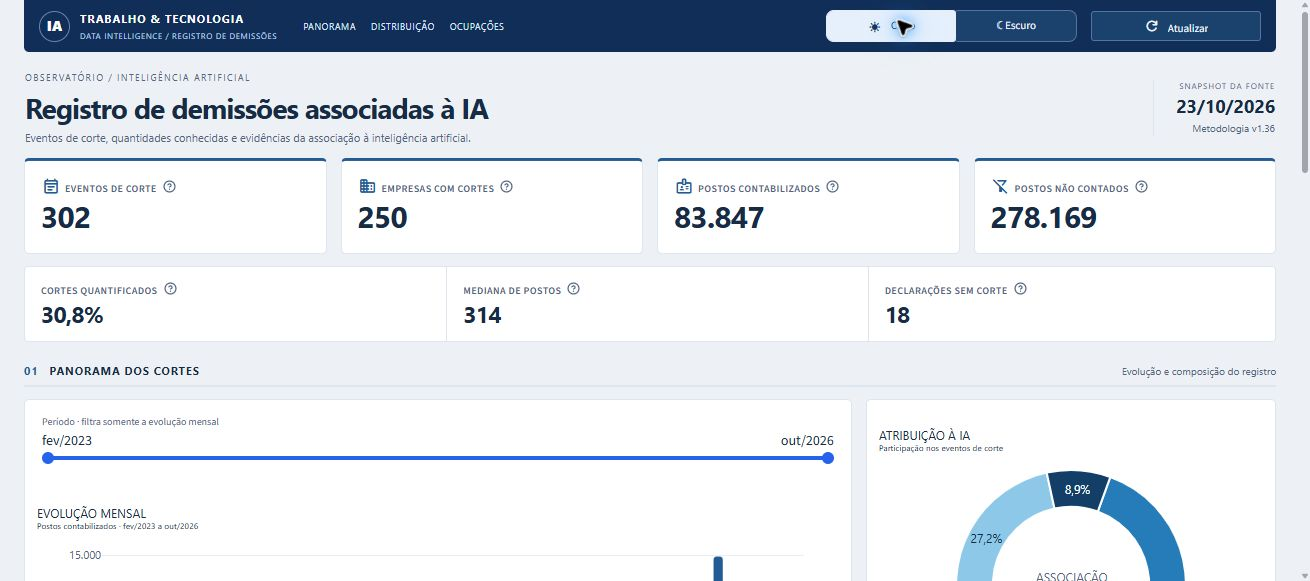
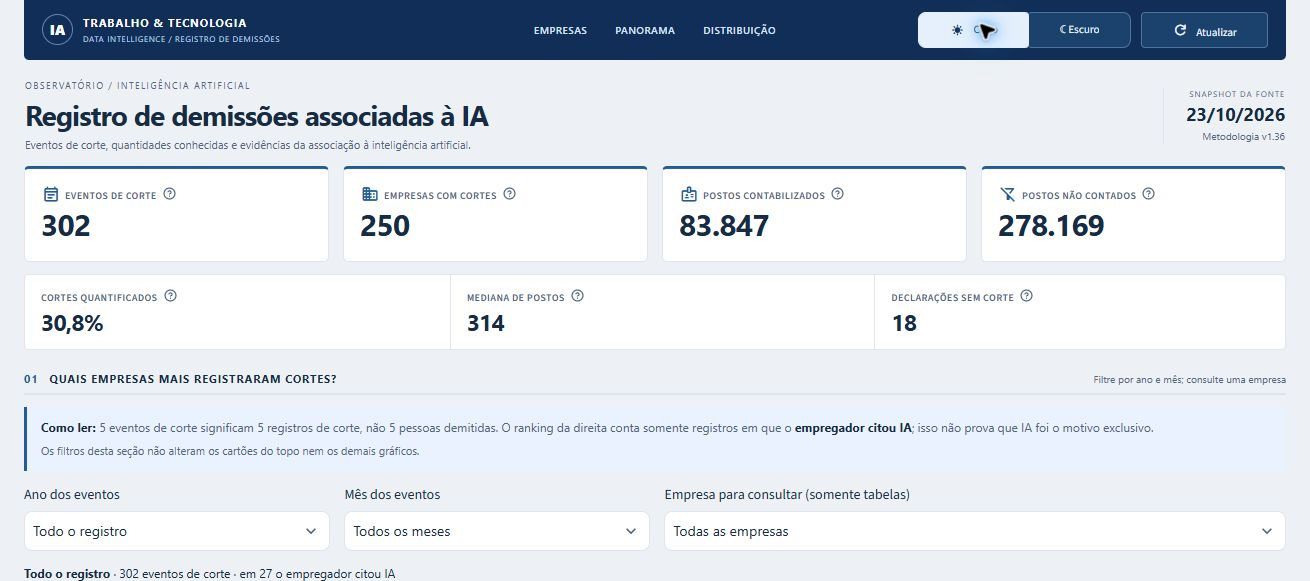
style: centraliza navegacao e organiza controles do cabecalho

diff --git a/design/painel.css b/design/painel.css
@@ -5,15 +5,18 @@
 .stApp [data-testid="stVerticalBlock"] { gap: 12px; }
 .stApp [data-testid="stHorizontalBlock"] { gap: 14px; }
 .stApp a { color: var(--acento); }
-.st-key-topbar { background: var(--hero); padding: 10px 15px; border-radius: 0 0 5px 5px; }
+.st-key-topbar { background: var(--hero); padding: 12px 18px; border-radius: 0 0 5px 5px; }
 .masthead { display: flex; align-items: center; gap: 10px; min-height: 32px; color: #fff; }
 .brand-mark { width: 31px; height: 31px; display: grid; place-items: center; border: 1px solid #6686af; border-radius: 50%; font-weight: 800; font-size: 14px; }
 .brand-name { font-size: 11px; letter-spacing: 1px; font-weight: 700; white-space: nowrap; }
 .brand-name small { display: block; font-size: 8px; letter-spacing: .65px; color: #b8cce7; font-weight: 400; margin-top: 2px; }
-.masthead nav { display: flex; gap: 15px; margin-left: 16px; }
-.masthead nav a { color: #d8e5f7; text-decoration: none; font-size: 9px; letter-spacing: .5px; }
-.masthead nav a:hover { color: #fff; text-decoration: underline; }
-.st-key-topbar button { min-height: 30px; padding: 3px 9px; border-radius: 3px; font-size: 11px; }
+.header-nav { display: flex; align-items: center; justify-content: center; gap: 4px; min-height: 36px; }
+.header-nav a { display: inline-flex; align-items: center; justify-content: center; min-height: 36px; padding: 0 12px; border-radius: 4px; color: #d8e5f7; text-decoration: none; font-size: 10px; font-weight: 600; letter-spacing: .5px; }
+.header-nav a:hover { color: #fff; background: #24496f; }
+.header-nav a:focus-visible { outline: 2px solid #b7d8ff; outline-offset: 2px; }
+.st-key-acoes_cabecalho { width: 100%; max-width: 350px; margin-left: auto; }
+.st-key-acoes_cabecalho [data-testid="stHorizontalBlock"] { gap: 10px; }
+.st-key-topbar button { min-height: 36px; padding: 5px 10px; border-radius: 4px; font-size: 11px; }
 .st-key-topbar button p { font-size: 11px; color: inherit !important; }
 .st-key-topbar button [data-testid="stMarkdownContainer"] { color: inherit !important; }
 .st-key-topbar button[kind="secondary"], .st-key-alternar_tema button { background: #1b416d; color: #eef5ff; border-color: #52749f; }
@@ -82,7 +85,12 @@
 .st-key-empresas_periodo [data-testid="stCaptionContainer"] { color: var(--secundario); opacity: 1; font-size: 11px; }
 .st-key-empresas_periodo [role="tab"] p { color: var(--secundario); font-size: 12px; }
 .st-key-empresas_periodo [role="tab"][aria-selected="true"] p { color: var(--acento); }
-@media (max-width: 1180px) { .masthead nav { display: none; } }
+@media (max-width: 1100px) {
+  .st-key-estrutura_cabecalho > [data-testid="stLayoutWrapper"] > [data-testid="stHorizontalBlock"] { flex-wrap: wrap; }
+  .st-key-estrutura_cabecalho > [data-testid="stLayoutWrapper"] > [data-testid="stHorizontalBlock"] > [data-testid="stColumn"] { flex: 1 1 calc(50% - 14px) !important; min-width: 0 !important; }
+  .st-key-estrutura_cabecalho > [data-testid="stLayoutWrapper"] > [data-testid="stHorizontalBlock"] > [data-testid="stColumn"]:nth-child(2) { order: 3; flex-basis: 100% !important; }
+  .header-nav { border-top: 1px solid #36567d; padding-top: 8px; }
+}
 @media (max-width: 950px) {
   .st-key-rankings_empresas [data-testid="stHorizontalBlock"] { flex-wrap: wrap; }
   .st-key-rankings_empresas [data-testid="stColumn"] { flex: 1 1 100% !important; min-width: 0 !important; }
@@ -95,9 +103,16 @@
 @media (max-width: 650px) {
   .stApp [data-testid="stVerticalBlock"] { gap: 10px; }
   .st-key-topbar { padding: 10px; }
-  .st-key-topbar [data-testid="stHorizontalBlock"] { flex-wrap: wrap; gap: 8px; }
-  .st-key-topbar [data-testid="stColumn"] { flex: 1 1 calc(50% - 8px) !important; min-width: 0 !important; }
-  .st-key-topbar [data-testid="stColumn"]:first-child { flex-basis: 100% !important; }
+  .st-key-estrutura_cabecalho > [data-testid="stLayoutWrapper"] > [data-testid="stHorizontalBlock"] { gap: 10px; }
+  .st-key-estrutura_cabecalho > [data-testid="stLayoutWrapper"] > [data-testid="stHorizontalBlock"] > [data-testid="stColumn"] { flex-basis: 100% !important; }
+  .st-key-estrutura_cabecalho > [data-testid="stLayoutWrapper"] > [data-testid="stHorizontalBlock"] > [data-testid="stColumn"]:first-child { order: 0; }
+  .st-key-estrutura_cabecalho > [data-testid="stLayoutWrapper"] > [data-testid="stHorizontalBlock"] > [data-testid="stColumn"]:nth-child(2) { order: 1; }
+  .st-key-estrutura_cabecalho > [data-testid="stLayoutWrapper"] > [data-testid="stHorizontalBlock"] > [data-testid="stColumn"]:nth-child(3) { order: 2; }
+  .masthead { justify-content: center; }
+  .header-nav a { padding: 0 11px; }
+  .st-key-acoes_cabecalho { max-width: none; margin: 0; }
+  .st-key-acoes_cabecalho [data-testid="stColumn"] { flex: 1.65 1 0 !important; min-width: 0 !important; }
+  .st-key-acoes_cabecalho [data-testid="stColumn"]:last-child { flex-grow: 1 !important; }
   .page-heading { align-items: start; display: block; padding-top: 4px; }
   .page-heading h1 { font-size: 23px; }
   .snapshot { margin-top: 12px; padding: 7px 9px; text-align: left; border-left: 3px solid var(--acento); background: var(--superficie); }

diff --git a/app.py b/app.py
@@ -40,32 +40,36 @@ def divisao(numero, titulo, detalhe, ancora):
     )
 
 
-with st.container(key="topbar"):
-    marca, aparencia, recarga = st.columns([4.8, 1.6, 1.1], vertical_alignment="center")
+with st.container(key="topbar"), st.container(key="estrutura_cabecalho"):
+    marca, navegacao, acoes = st.columns(3, vertical_alignment="center")
     with marca:
         st.html("""<div class="masthead"><span class="brand-mark">IA</span>
-<div class="brand-name">TRABALHO &amp; TECNOLOGIA<small>DATA INTELLIGENCE / REGISTRO DE DEMISSÕES</small></div>
-<nav aria-label="Seções do painel"><a href="#empresas">EMPRESAS</a>
-<a href="#evolucao">PANORAMA</a><a href="#distribuicao">DISTRIBUIÇÃO</a></nav></div>""")
-    with aparencia, st.container(key="alternar_tema"):
-        escolhido = st.segmented_control(
-            "Aparência",
-            ["Claro", "Escuro"],
-            default="Claro",
-            required=True,
-            key="tema_visual",
-            label_visibility="collapsed",
-            width="stretch",
-            format_func=lambda valor: f"☀ {valor}" if valor == "Claro" else f"☾ {valor}",
-        )
-    with recarga:
-        if st.button(
-            "Atualizar",
-            icon=":material/refresh:",
-            width="stretch",
-            help="Reler os marts; não baixa outra versão da fonte.",
-        ):
-            carregar.clear()
+<div class="brand-name">TRABALHO &amp; TECNOLOGIA<small>DATA INTELLIGENCE / REGISTRO DE DEMISSÕES</small></div></div>""")
+    with navegacao:
+        st.html("""<nav class="header-nav" aria-label="Seções do painel">
+<a href="#empresas">EMPRESAS</a><a href="#evolucao">PANORAMA</a>
+<a href="#distribuicao">DISTRIBUIÇÃO</a></nav>""")
+    with acoes, st.container(key="acoes_cabecalho"):
+        aparencia, recarga = st.columns([1.65, 1], vertical_alignment="center")
+        with aparencia, st.container(key="alternar_tema"):
+            escolhido = st.segmented_control(
+                "Aparência",
+                ["Claro", "Escuro"],
+                default="Claro",
+                required=True,
+                key="tema_visual",
+                label_visibility="collapsed",
+                width="stretch",
+                format_func=lambda valor: f"☀ {valor}" if valor == "Claro" else f"☾ {valor}",
+            )
+        with recarga:
+            if st.button(
+                "Atualizar",
+                icon=":material/refresh:",
+                width="stretch",
+                help="Reler os marts; não baixa outra versão da fonte.",
+            ):
+                carregar.clear()
 
 tema = "escuro" if escolhido == "Escuro" else "claro"
 st.html(painel.estilos(tema))

diff --git a/README.md b/README.md
@@ -97,6 +97,10 @@ uv run streamlit run app.py
 
 Abrir o endereço mostrado pelo Streamlit. Use **Claro / Escuro** no topo para alternar a aparência da página e dos gráficos. A escolha permanece durante os filtros e a atualização de dados na mesma sessão. O padrão é claro.
 
+O menu fica centralizado no cabeçalho, com a marca à esquerda e tema/atualização alinhados à direita. Em tablet, a navegação ocupa uma linha própria; no celular, os três grupos ficam centralizados em linhas separadas. Links, tema e recarga foram conferidos com AppTest e Chrome em 1310, 768 e 390 px.
+
+![Cabeçalho organizado](design/cabecalho-claro.jpg)
+
 O desenho segue o painel financeiro de referência: cabeçalho compacto azul-marinho, quatro cartões principais e três medidas complementares. As cinco faixas são: indicadores; empresas por período; panorama mensal; distribuição/evidências; ocupações/concentração. Abaixo de 950 px, cartões principais passam a duas colunas e os gráficos se empilham. As [decisões visuais](design/visual.md) mostram a composição.
 
 Na seção **Quais empresas mais registraram cortes?**, escolha **Ano dos eventos** e, opcionalmente, **Mês dos eventos**. O primeiro ranking mostra até cinco empresas por número de eventos; o segundo, até cinco por eventos classificados como `explicit` (o empregador citou IA). Empates são ordenados pelo nome. Empresas sem quantidade conhecida de postos continuam incluídas. No registro completo, são 302 eventos, dos quais 27 classificados como `explicit`; em 2025, são 73 e 9, respectivamente.

diff --git a/design/visual.md b/design/visual.md
@@ -8,6 +8,8 @@ A revisão 3 atende à dificuldade de leitura apontada pelo usuário: antes do p
 
 Cabeçalho azul-marinho compacto, marca, navegação por âncoras e controles de aparência/recarga. Título e snapshot numa faixa curta. Superfícies retangulares, cantos de 4–5 px, bordas discretas, títulos em caixa alta e pouco espaço entre os blocos, como na referência. Sem o grande bloco de apresentação anterior.
 
+O cabeçalho usa três áreas de mesma largura: marca à esquerda, links centralizados e controles à direita, com largura limitada e botões de 36 px. Até 1100 px, marca e controles dividem a primeira linha e o menu fica centralizado abaixo. Até 650 px, são três linhas centralizadas: marca, navegação e controles. Os links continuam visíveis no celular. Ajuste conferido com AppTest (sete cartões, nove gráficos, tema e recarga), Ruff e Chrome em 1310, 768 e 390 px. Capturas: [claro](cabecalho-claro.jpg) e [escuro](cabecalho-escuro.jpg).
+
 ```text
 MARCA / NAVEGAÇÃO                              CLARO · ESCURO / ATUALIZAR
 Título do registro                                      Snapshot da fonte
